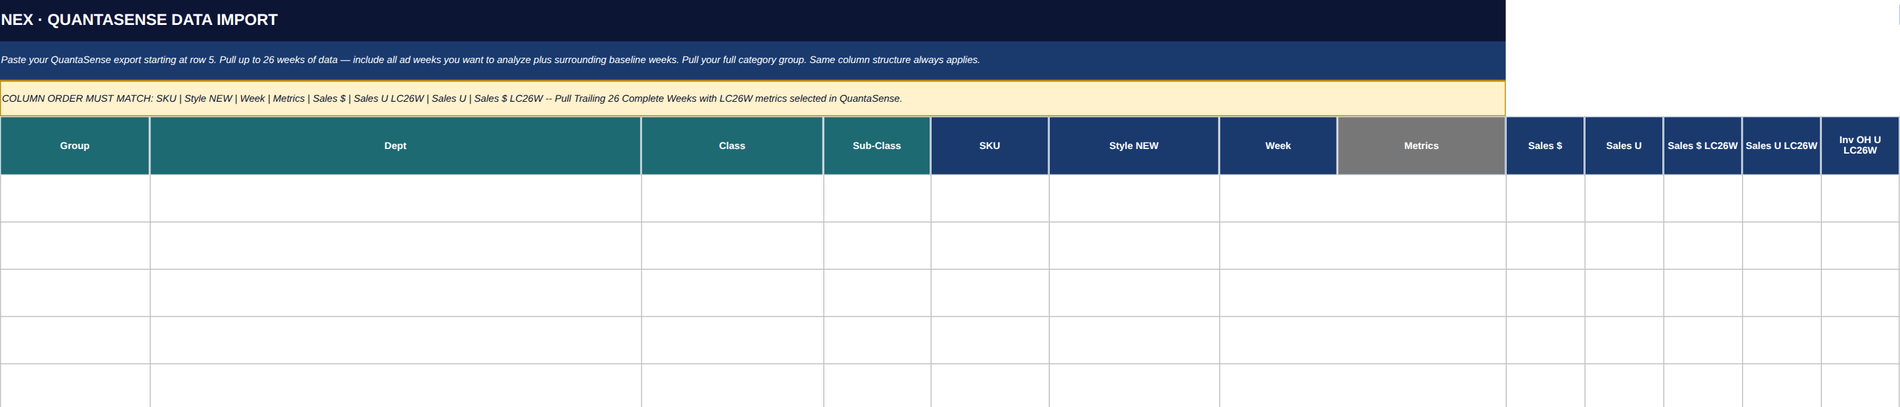
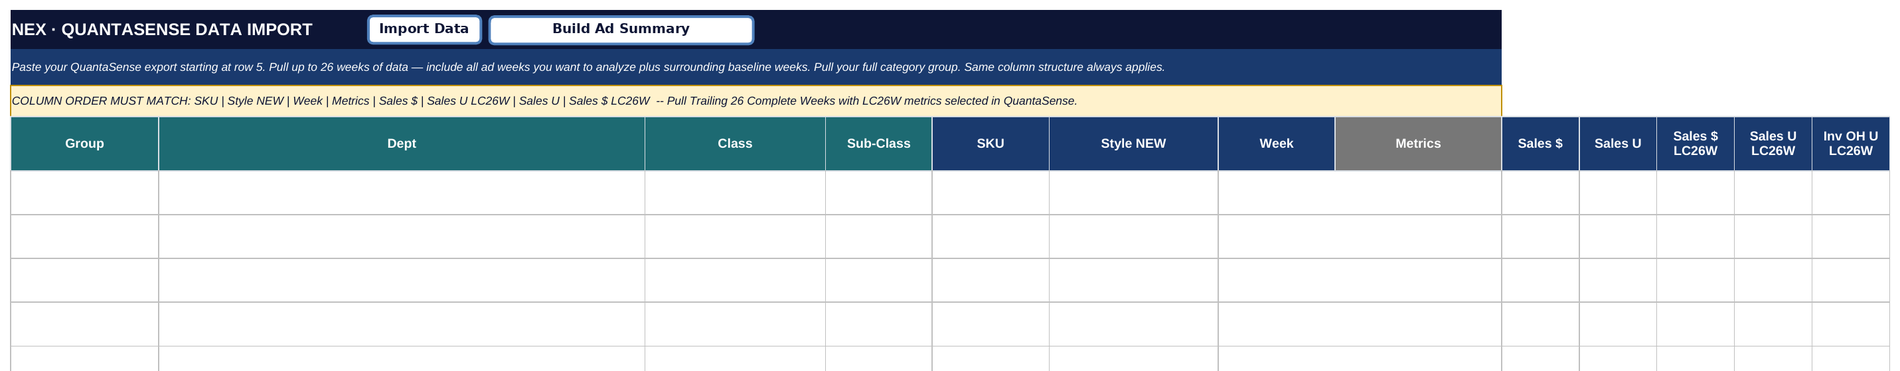
Trim Ad Planner section and fix screenshots
Remove the BrandList, Ad Tracker, VBA Setup and SQL subsections and the
Instructions screenshot; turn the workbook's Instructions tab into an
on-page "How the Ad Planner Works" section (tab guide, how lift is
measured, which lift % to quote) and fold its remaining tips into Before
You Start, the sheet steps and Troubleshooting. Re-render the Data
Import, Lift Query and Ad Week Planner screenshots so their buttons show
(Planner now includes Export To PowerPoint, split into two readable
halves), and drop sheet numbers from headings.

Claude-Session: https://claude.ai/code/session_016iHLqjpmQEgqUVypBFh5hb

diff --git a/Coding.html b/Coding.html
@@ -1067,6 +1067,7 @@ td.red-border-cell:nth-child(4) {
       <a class="nav-sub-link" href="#ad-planner">Overview &amp; Download</a>
       <a class="nav-sub-link" href="#adp-before">Before You Start</a>
       <a class="nav-sub-link" href="#adp-workflow">Weekly Workflow</a>
+      <a class="nav-sub-link" href="#adp-how">How It Works</a>
       <a class="nav-sub-link" href="#adp-calendar">Ad Week Calendar</a>
       <a class="nav-sub-link" href="#adp-data-import">Data Import</a>
       <a class="nav-sub-link" href="#adp-ad-summary">Ad Summary</a>
@@ -1075,8 +1076,6 @@ td.red-border-cell:nth-child(4) {
       <a class="nav-sub-link" href="#adp-export">Export To PowerPoint</a>
       <a class="nav-sub-link" href="#adp-db-import">Ad Database Import</a>
       <a class="nav-sub-link" href="#adp-uploader">Upload (Ctrl+A)</a>
-      <a class="nav-sub-link" href="#adp-brandlist">BrandList &amp; Ad Tracker</a>
-      <a class="nav-sub-link" href="#adp-vba-setup">VBA Setup &amp; SQL</a>
       <a class="nav-sub-link" href="#adp-troubleshooting">Troubleshooting</a>
       <a class="nav-sub-link" href="#adp-code">The Code</a>
     </div>
@@ -2580,18 +2579,28 @@ SaveErr:
         <li><strong>PowerPoint templates:</strong> put <code>AE_and_FE_Templates.pptx</code>, <code>Email_Templates.pptx</code> and <code>Large_Event_Template.pptx</code> in the <strong>same folder</strong> as the workbook. The export looks for them there.</li>
         <li><strong>Network access</strong> to the Ad Database (an Access file on the shared drive) and to RMS. RMS is read through the Oracle ODBC driver with a read-only login; the password is read from a protected network file, so you never type it.</li>
         <li><strong>Installed software:</strong> Excel, PowerPoint and Outlook, the Microsoft Access Database Engine (ACE OLEDB) and the Microsoft ODBC for Oracle driver.</li>
+        <li><strong>VBA reference:</strong> in the VBA editor (<kbd>Alt</kbd>+<kbd>F11</kbd>) under <strong>Tools → References</strong>, make sure <em>Microsoft ActiveX Data Objects 6.1 Library</em> (or the latest version) is ticked. The DB Uploader needs it.</li>
+        <li>The DB Uploader keeps a copy of the department lookup list in <code>C:\temp</code>; it creates the folder if it doesn’t exist.</li>
       </ul>
       <h3 id="adp-workflow">The Weekly Workflow at a Glance</h3>
       <div style="overflow-x:auto;"><table class="inspect-table"><thead><tr><th>#</th><th>Step</th><th>Sheet</th><th>Button / macro</th></tr></thead><tbody><tr><td>1</td><td>Log the ad weeks you want to measure</td><td><a href="#adp-calendar">Ad Week Calendar</a></td><td>Type them in</td></tr><tr><td>2</td><td>Pull 26 weeks of sales from QuantaSense and import them</td><td><a href="#adp-data-import">Data Import</a></td><td><strong>Import Data</strong></td></tr><tr><td>3</td><td>Calculate lift for the ad week(s)</td><td><a href="#adp-data-import">Data Import</a> → <a href="#adp-ad-summary">Ad Summary</a></td><td><strong>Build Ad Summary</strong></td></tr><tr><td>4</td><td>Review results; roll up by vendor or product</td><td><a href="#adp-ad-summary">Ad Summary</a>, <a href="#adp-lift-query">Lift Query</a></td><td><strong>Update</strong> (Lift Query)</td></tr><tr><td>5</td><td>Build the new ad week and pull item details</td><td><a href="#adp-planner">Ad Week Planner</a></td><td><strong>Import SKU Data</strong></td></tr><tr><td>6</td><td>Export the slide, fill the database sheet and log the export</td><td><a href="#adp-planner">Ad Week Planner</a></td><td><strong>Export To PowerPoint</strong></td></tr><tr><td>7</td><td>Finish the database rows and upload them</td><td><a href="#adp-db-import">Ad Database Import</a></td><td><kbd>Ctrl</kbd>+<kbd>A</kbd> → <strong>Update Ad Database</strong></td></tr></tbody></table></div>
-      <div class="note">The workbook also has its own <strong>Instructions</strong> tab. Parts of it are from an older version (for example it mentions a Comparable Items tab and says INCLUDE? is column S). Where they differ, this guide follows the current code.</div>
-      <h3 id="adp-instructions">Sheet 1: Instructions</h3>
-      <img src="Pictures/Coding/Ad Planner/01-Instructions.png" alt="Instructions tab with the overview, tab directory and standard weekly workflow" loading="lazy">
-      <p>A reference page: an overview, a directory of every tab, the weekly workflow, and how lift and verdicts are calculated. Nothing on it is used by the macros.</p>
-      <h3 id="adp-calendar">Sheet 2: Ad Week Calendar</h3>
+      <div class="note">The workbook’s own Instructions tab is summarized below. Parts of it are from older versions (for example it says INCLUDE? is column S and mentions an HL holiday template); this guide follows the current code.</div>
+      <h3 id="adp-how">How the Ad Planner Works</h3>
+      <p>The workbook links your QuantaSense sales data, RMS item data, the PowerPoint ad templates and the Ad Database. These are the tabs you work in:</p>
+      <div style="overflow-x:auto;"><table class="inspect-table"><thead><tr><th>Tab</th><th>What it’s for</th></tr></thead><tbody><tr><td><a href="#adp-calendar">Ad Week Calendar</a></td><td>The list of ad weeks and their QuantaSense week codes.</td></tr><tr><td><a href="#adp-data-import">Data Import</a></td><td>The QuantaSense sales data, loaded with the Import Data button (no pasting).</td></tr><tr><td><a href="#adp-ad-summary">Ad Summary</a></td><td>Lift results for each item in the ad week(s) you analyze.</td></tr><tr><td><a href="#adp-lift-query">Lift Query</a></td><td>Rolls the Ad Summary up by week, description, Class or Sub-Class.</td></tr><tr><td><a href="#adp-planner">Ad Week Planner</a></td><td>Where you build one ad week; drives the PowerPoint export.</td></tr><tr><td><a href="#adp-db-import">Ad Database Import</a></td><td>The rows that get uploaded to the Ad Database.</td></tr></tbody></table></div>
+      <h4 style="margin:14px 0 6px;">How lift is measured</h4>
+      <p><strong>Baseline = the item’s normal, un-promoted sales.</strong> For each item, the Baseline Avg/Wk is the average weekly units it sold over the last 26 weeks <em>excluding</em> ad weeks. That answers “what does this item sell when we <em>don’t</em> advertise it?”, which is the right comparison, rather than a calendar-year average.</p>
+      <ul>
+        <li><strong>Unit Lift</strong> = ad week units − baseline: the extra units the ad drove.</li>
+        <li><strong>Lift %</strong> = unit lift ÷ baseline: the headline number for one item.</li>
+        <li><strong>Weighted Lift %</strong> (Lift Query) = total unit lift ÷ total baseline units across a group of items.</li>
+      </ul>
+      <div style="overflow-x:auto;"><table class="inspect-table"><thead><tr><th>When you’re quoting…</th><th>Use</th></tr></thead><tbody><tr><td>One item</td><td>Its <strong>Lift %</strong> on the Ad Summary.</td></tr><tr><td>A vendor, product line or whole ad</td><td>The <strong>Weighted Lift %</strong> from the Lift Query. It counts every unit equally, so it matches the actual extra units the ad drove.</td></tr><tr><td>A simple average of several items’ Lift %</td><td><strong>Don’t</strong>. Small items with big percentages inflate it.</td></tr></tbody></table></div>
+      <h3 id="adp-calendar">Ad Week Calendar</h3>
       <img src="Pictures/Coding/Ad Planner/02-Ad-Week-Calendar.png" alt="Ad Week Calendar tab with Ad Week, Vehicle, Ad Name / Theme, QS Week Code and Notes columns" loading="lazy">
       <p>A running list of every ad you run. Add a row each time:</p>
       <div style="overflow-x:auto;"><table class="inspect-table"><thead><tr><th>Column</th><th>Example</th><th>Notes</th></tr></thead><tbody><tr><td>Ad Week #</td><td><code>WK25</code></td><td></td></tr><tr><td>Vehicle</td><td><code>AE</code>, <code>SF</code>, <code>X</code></td><td></td></tr><tr><td>Ad Name / Theme</td><td><code>Back to School</code></td><td></td></tr><tr><td><strong>QS Week Code</strong></td><td><code>2025:Wk25</code></td><td><strong>Required.</strong> Must match the Week column in the QuantaSense export exactly. The predecessor lookup uses this list to tell ad weeks from normal weeks.</td></tr><tr><td>Notes</td><td></td><td></td></tr></tbody></table></div>
-      <h3 id="adp-data-import">Sheet 3: Data Import (and the Build Ad Summary button)</h3>
+      <h3 id="adp-data-import">Data Import (and Build Ad Summary)</h3>
       <img src="Pictures/Coding/Ad Planner/03-Data-Import.png" alt="Data Import tab with Group, Dept, Class, Sub-Class, SKU, Style NEW, Week, Metrics, Sales and LC26W columns" loading="lazy">
       <p>Holds the QuantaSense sales data the analysis runs on. You don’t paste into it; the <strong>Import Data</strong> button loads it for you.</p>
       <p><strong>1. Pull the data.</strong> In QuantaSense, export the <strong>Ad Planner V1</strong> layout for your category group covering the <strong>trailing 26 complete weeks</strong> with the LC26W metrics selected. Include the ad week(s) you want to measure and the normal weeks around them. Save it as <code>.xlsx</code>.</p>
@@ -2601,9 +2610,10 @@ SaveErr:
         <li>Opens a temporary <strong>Select Group(s) to Import</strong> sheet with a checkbox for every group in the file (all ticked). Untick any you don’t need, then click <strong>Confirm Selection</strong> (or <strong>Cancel</strong>).</li>
         <li>Clears the old data and writes the selected rows from row 5, then tells you how many rows were imported and how long it took.</li>
       </ol>
+      <div class="note red-note"><strong>Every import wipes and replaces</strong> the data from row 5 down. To analyze two pulls together, combine them in QuantaSense first, then export once.</div>
       <p><strong>3. Click Build Ad Summary.</strong> A temporary <strong>Select Ad Week(s) to Analyze</strong> sheet lists every week in the data. Tick the ad week(s) you want to measure and click <strong>Confirm Selection</strong>. Results go to the Ad Summary tab.</p>
       <div style="overflow-x:auto;"><table class="inspect-table"><thead><tr><th>Columns</th><th>What they hold</th></tr></thead><tbody><tr><td>Group, Dept, Class, Sub-Class (A–D)</td><td>Product hierarchy. Sub-Class is often the brand.</td></tr><tr><td>SKU (E)</td><td>Transaction RIN.</td></tr><tr><td>Style NEW (F)</td><td><code>Parent RIN: Description</code>. Rows containing UNSCANNED, DEMO or SPECIAL ORDER are ignored.</td></tr><tr><td>Week (G)</td><td>Week code, e.g. <code>2025:Wk25</code>.</td></tr><tr><td>Sales $ / Sales U (I–J)</td><td>That week’s revenue and units.</td></tr><tr><td>Sales $ / Sales U LC26W, Inv OH U LC26W (K–M)</td><td>Last-26-week figures used to build the normal (baseline) weekly sales.</td></tr></tbody></table></div>
-      <h3 id="adp-ad-summary">Sheet 4: Ad Summary</h3>
+      <h3 id="adp-ad-summary">Ad Summary</h3>
       <img src="Pictures/Coding/Ad Planner/04-Ad-Summary.png" alt="Ad Summary tab header with Ad Weeks, Count, Last Run and Predecessor fields and the elasticity table columns" loading="lazy">
       <p>One row per Transaction RIN per selected ad week, showing how much the ad lifted sales compared with a normal week. The header shows the weeks analyzed (E3), the item count (H3) and when it last ran (K3).</p>
       <div style="overflow-x:auto;"><table class="inspect-table"><thead><tr><th>Column</th><th>Meaning</th></tr></thead><tbody><tr><td>Ad Wk Units / Ad Wk Rev ($)</td><td>Units and revenue in the ad week.</td></tr><tr><td>Baseline Avg/Wk</td><td>Average weekly units in the <strong>non-ad</strong> weeks (the normal run-rate).</td></tr><tr><td>Baseline Weeks</td><td>How many non-ad weeks the baseline is based on.</td></tr><tr><td>Unit Lift</td><td>Ad week units − baseline.</td></tr><tr><td><strong>Lift %</strong></td><td>Unit lift ÷ baseline. The headline number.</td></tr><tr><td>Rev Lift ($)</td><td>Ad week revenue − average non-ad week revenue.</td></tr><tr><td><strong>Verdict</strong></td><td>See below.</td></tr><tr><td>Average Selling Price</td><td>Ad week revenue ÷ units.</td></tr><tr><td>Group, Dept, Class, Sub-Class</td><td>For filtering by category.</td></tr></tbody></table></div>
@@ -2611,17 +2621,19 @@ SaveErr:
       <p><strong>Using it:</strong> filter Verdict to STRONG/MODERATE, sort Lift % from largest to smallest to rank the best performers, or filter Group/Dept/Class/Sub-Class to focus on a category.</p>
       <p><strong>Predecessor lookup:</strong> to see how an older, similar item did in every ad week in the data, type its Parent RIN in <strong>M3</strong> and run <strong>View → Macros → LookupPredecessor</strong>. The results appear below the main table.</p>
       <div class="note">The Ad Summary only holds the week(s) you picked the last time you ran Build Ad Summary. To compare other weeks, run it again and select them.</div>
-      <h3 id="adp-lift-query">Sheet 5: Lift Query</h3>
+      <h3 id="adp-lift-query">Lift Query</h3>
       <img src="Pictures/Coding/Ad Planner/05-Lift-Query.png" alt="Lift Query tab with Ad Week, Description, Class and Sub-Class inputs, results summary and detail table" loading="lazy">
       <p>Rolls up the Ad Summary for a vendor, product or category: the number to quote when discussing performance with buyers or marketing. Fill in any of the inputs (blank = no filter) and click <strong>Update</strong>:</p>
       <div style="overflow-x:auto;"><table class="inspect-table"><thead><tr><th>Input</th><th>What it filters</th></tr></thead><tbody><tr><td>Ad Week(s) (B3)</td><td>Exact week codes, comma-separated, e.g. <code>2025:Wk25, 2025:Wk31</code>.</td></tr><tr><td>Description contains (B4)</td><td>Text anywhere in the description, e.g. <code>MacBook Air</code>.</td></tr><tr><td>Class contains (B5)</td><td>Text in the Class.</td></tr><tr><td>Sub-Class contains (B6)</td><td>Text in the Sub-Class, often the brand, e.g. <code>Apple</code>.</td></tr></tbody></table></div>
       <p>Results: SKUs matched, total ad units and revenue, total unit and revenue lift, and the <strong>Weighted Lift %</strong> (total unit lift ÷ total baseline units), followed by the matching rows sorted by Lift %. The weighted figure counts every unit equally, so it isn’t skewed by small items the way a simple average of Lift % would be.</p>
-      <h3 id="adp-planner">Sheet 6: Ad Week Planner</h3>
-      <img src="Pictures/Coding/Ad Planner/06-Ad-Week-Planner.png" alt="Ad Week Planner tab with ad header fields, Import SKU Data button and item rows from Trans RIN to Brand" loading="lazy">
+      <h3 id="adp-planner">Ad Week Planner</h3>
+      <img src="Pictures/Coding/Ad Planner/06-Ad-Week-Planner.png" alt="Ad Week Planner left side: ad header fields, Export To PowerPoint and Import SKU Data buttons, and item columns Trans RIN to Call Out" loading="lazy">
+      <img src="Pictures/Coding/Ad Planner/06b-Ad-Week-Planner-right.png" alt="Ad Week Planner right side: Ad Info, Predecessor RIN, LY lift columns, GM %, Vendor Funded, Elasticity, INCLUDE? and Brand" loading="lazy">
       <p>Where you build the ad. The header fields come first:</p>
       <div style="overflow-x:auto;"><table class="inspect-table"><thead><tr><th>Cell</th><th>Enter</th><th>Used for</th></tr></thead><tbody><tr><td><strong>Ad Week #</strong> (B3)</td><td>e.g. <code>25</code> or <code>WK25</code></td><td>Required. File name, database Week, tracker.</td></tr><tr><td><strong>Vehicle</strong> (E3)</td><td><code>AE</code>, <code>FE</code>, <code>X</code>/<code>EMAIL</code>, <code>LE</code>, …</td><td>Picks the PowerPoint template (see below).</td></tr><tr><td>Theme / Anchor (B4)</td><td>Ad theme</td><td>Copied to THEME on the Ad Database Import sheet.</td></tr><tr><td>Ad Start / End Date (B5, E5)</td><td>Dates</td><td>Reference.</td></tr><tr><td>LY Ad Week #, LY Theme, LY Pages Ran</td><td>Last year’s ad</td><td>Reference.</td></tr></tbody></table></div>
       <p>Then one item per row from row 10 (up to row 89):</p>
       <div style="overflow-x:auto;"><table class="inspect-table"><thead><tr><th>Column</th><th>Filled by</th><th>Notes</th></tr></thead><tbody><tr><td><strong>Trans RIN</strong> (A)</td><td>You</td><td>Use <code>TBD</code> for a new item without a RIN yet; the slide marks it “TBD -- NEW ITEM” in red.</td></tr><tr><td>Parent RIN, VPN, UPC, Cost, Retail, Description (B–G)</td><td><strong>Import SKU Data</strong> (from RMS)</td><td>Type over Retail or Description after importing to use your own text on the slide and in the database.</td></tr><tr><td><strong>Promo Price</strong> (H)</td><td>You</td><td>Becomes the ad price.</td></tr><tr><td>Savings (I)</td><td>Formula</td><td>Retail − Promo Price.</td></tr><tr><td>Call Out (J)</td><td>You</td><td>e.g. New, Special Pricing.</td></tr><tr><td>Ad Info (K)</td><td><strong>Import SKU Data</strong> (from the Ad Database)</td><td>The newest ad copy previously used for that item.</td></tr><tr><td>Predecessor RIN (L)</td><td>You</td><td>An older, similar item; fills LY Ad Units, LY Units Lift % and LY Rev Lift from the Ad Summary.</td></tr><tr><td>Curr IOH, GM %, Vendor Funded? (P–R)</td><td>You</td><td>Planning notes.</td></tr><tr><td>Elasticity (LY) (S)</td><td>Formula</td><td>STRONG / MODERATE / WEAK from LY Units Lift %.</td></tr><tr><td><strong>INCLUDE?</strong> (T)</td><td>You</td><td><code>YES</code> puts the item on the slide.</td></tr><tr><td>Brand (U)</td><td>Formula</td><td>Detected from the description using the BrandList tab.</td></tr></tbody></table></div>
+      <p>The formula columns (Savings, the LY columns, Elasticity and Brand) are locked so the formulas can’t be deleted; don’t type into them. If a brand isn’t detected, add it to the workbook’s BrandList tab.</p>
       <p><strong>Import SKU Data</strong> (the <code>UpdateButton</code> macro): select the Trans RIN cells to update in column A, or click any cell outside column A to update every row from 10 down, then click the button. For each RIN it reads the item’s details from RMS and the newest Ad Information from the Ad Database, then shows which rows were updated.</p>
       <h3 id="adp-export">Export To PowerPoint</h3>
       <p>When the INCLUDE? column is set, click <strong>Export To PowerPoint</strong> on the Planner and confirm the prompt. The macro:</p>
@@ -2629,18 +2641,19 @@ SaveErr:
         <li><strong>Checks the setup.</strong> Ad Week # must be filled, U9 must say <code>Brand</code>, and at least one item must be marked YES.</li>
         <li><strong>Picks the template</strong> from the Vehicle (below) and asks you for a layout if there’s a choice. If more items are marked YES than the layout has slots, it stops and tells you.</li>
         <li><strong>Asks where to save</strong> the PowerPoint (suggested name e.g. <code>25_AE_FE_20261002.pptx</code>). <strong>Cancel here and nothing else runs.</strong></li>
-        <li><strong>Bulk loads the Ad Database Import sheet</strong> with every item row on the Planner (see <a href="#adp-db-import">Sheet 7</a>).</li>
+        <li><strong>Bulk loads the Ad Database Import sheet</strong> with every item row on the Planner (see <a href="#adp-db-import">Ad Database Import</a>).</li>
         <li><strong>Builds the slide.</strong> Each slot gets the description, VPN, RIN, retail, promo price, savings and call out, then the file is saved and PowerPoint closed.</li>
         <li><strong>Logs the export</strong> to the Ad Tracker and shows a summary with the saved file’s location.</li>
       </ol>
-      <div style="overflow-x:auto;"><table class="inspect-table"><thead><tr><th>Vehicle (E3)</th><th>Template</th><th>Layouts</th></tr></thead><tbody><tr><td><code>LE</code> (large event)</td><td><code>Large_Event_Template.pptx</code></td><td>No prompt. 7 items per slide, as many slides as needed (up to 210 items).</td></tr><tr><td><code>X</code> or <code>EMAIL</code> (or an Ad Week containing X)</td><td><code>Email_Templates.pptx</code></td><td>1 = feature hero + 3 (4 slots), 2 = 2×2 grid (4), 3 = single column (3).</td></tr><tr><td>Anything else (<code>AE</code>, <code>FE</code>, …)</td><td><code>AE_and_FE_Templates.pptx</code></td><td>1 = hero + 6 (7 slots), 2 = 9-up grid (9), 3 = hero + 3 (4).</td></tr></tbody></table></div>
-      <h3 id="adp-db-import">Sheet 7: Ad Database Import (and the DB Uploader)</h3>
+      <div style="overflow-x:auto;"><table class="inspect-table"><thead><tr><th>Vehicle (E3)</th><th>Template</th><th>Layouts</th></tr></thead><tbody><tr><td><code>LE</code> (large event)</td><td><code>Large_Event_Template.pptx</code></td><td>No prompt. 7 items per slide, as many slides as needed (up to 210 items).</td></tr><tr><td><code>X</code> or <code>EMAIL</code> (or an Ad Week containing X)</td><td><code>Email_Templates.pptx</code></td><td>1 = feature hero + 3 (4 slots), 2 = 2×2 grid (4), 3 = single column (3).</td></tr><tr><td>Anything else (<code>AE</code>, <code>FE</code>, …)</td><td><code>AE_and_FE_Templates.pptx</code></td><td>1 = hero + 6 (7 slots), 2 = 9-up grid (9), 3 = hero + 3 (4).</td></tr><tr><td><code>HL</code> (holiday)</td><td><code>AE_and_FE_Templates.pptx</code></td><td>The Instructions tab mentions an 8-grid holiday template, but the current code treats HL like AE/FE.</td></tr></tbody></table></div>
+      <h3 id="adp-db-import">Ad Database Import (and the DB Uploader)</h3>
       <img src="Pictures/Coding/Ad Planner/07-Ad-Database-Import.png" alt="Ad Database Import tab with Week, Item Info, Marketing, Pricing, Image, Order Info and Coop column groups" loading="lazy">
       <p>The rows that go into the Ad Database. Export To PowerPoint adds one row per Planner item <strong>below any existing rows</strong>:</p>
       <div style="overflow-x:auto;"><table class="inspect-table"><thead><tr><th>Column</th><th>Filled with</th></tr></thead><tbody><tr><td>Wk (A)</td><td>Ad Week # and Vehicle combined, e.g. <code>25AE</code>.</td></tr><tr><td>Supplier # / Supplier Name (B–C)</td><td>From RMS.</td></tr><tr><td>RIN, Style # (VPN) (D–E)</td><td>Trans RIN and VPN.</td></tr><tr><td>Item Description (F)</td><td>The Planner’s Description if typed, otherwise RMS.</td></tr><tr><td>Ad Information (G)</td><td>The Planner’s <strong>Call Out (J)</strong> if filled, otherwise the newest Ad Information in the Ad Database. (The macro looks for a Planner header named “Ad Information”; the Planner’s header is “Ad Info”, so it falls back to column J. Rename K9 to <code>Ad Information</code> if you want column K used instead.)</td></tr><tr><td>Priority (I)</td><td>1, 2, 3… in Planner order.</td></tr><tr><td>NEX Price (P), Adv Price (Q)</td><td>Planner Retail (or RMS retail) and Promo Price.</td></tr><tr><td>NEX Cost (U), Reg Cost (AQ)</td><td>RMS cost.</td></tr><tr><td>IMAGE (AC)</td><td>The newest Image Delivery note in the Ad Database.</td></tr><tr><td>DEPT, CLASS, THEME, PARENT (AM–AP)</td><td>RMS dept and class, the Planner theme, Parent RIN.</td></tr><tr><td>New Item, Online Exclusive, Change Type, Pricing Strategy, YEAR</td><td>Pre-filled defaults: <code>N</code>, <code>N</code>, <code>FIXED</code>, <code>YFB</code>, <code>2026</code>.</td></tr></tbody></table></div>
       <div class="note red-note"><strong>Clear old rows before re-exporting.</strong> Every export adds rows below the existing ones and includes <em>every</em> Planner row with a Trans RIN, not just INCLUDE? = YES. Delete rows you don’t want uploaded before using the DB Uploader.</div>
       <p>Fill in anything still blank that the ad needs (Page, MSRP, Call Outs, Grouping Info, Coop $, Order Frequency, etc.).</p>
       <h3 id="adp-uploader">Upload to the Ad Database (Ctrl+A)</h3>
+      <p>The uploader finds each field by its <strong>header text in row 4</strong>, so columns can move but headers must keep their exact names. Don’t merge cells in rows 1 or 4.</p>
       <ol>
         <li>On the Ad Database Import sheet, <strong>select one cell in each row</strong> you want to upload (up to 500). Rows with no Wk and no RIN are skipped.</li>
         <li>Press <kbd>Ctrl</kbd>+<kbd>A</kbd> to open the <strong>Update Ad Database</strong> form. It copies the latest lookup list to <code>C:\temp</code> and fills in what it can.</li>
@@ -2657,21 +2670,8 @@ SaveErr:
         <li>When <em>“Done!”</em> appears, open the Ad Database and check the new records. You may still need to add imaging, Parent RIN, RPC dates or other details by hand.</li>
       </ol>
       <div style="overflow-x:auto;"><table class="inspect-table"><thead><tr><th>Sheet column</th><th>Ad Database field</th></tr></thead><tbody><tr><td>RIN</td><td><em>RIN or Item List</em> (an <code>R</code> is added to numeric RINs) and <em>Featured RIN</em> (number only)</td></tr><tr><td>Supplier Name / Supplier #</td><td>Vendor / DUNS</td></tr><tr><td>Style # (VPN)</td><td>Vendor Style Number</td></tr><tr><td>Item Description / Ad Information</td><td>Item Description / Ad Information</td></tr><tr><td>Page</td><td>Page (two digits, e.g. <code>04</code>)</td></tr><tr><td>New Item Y/N, Online Exclusive Y/N</td><td>Same fields (blank = <code>N</code>)</td></tr><tr><td>NEX Price / Adv Price / NEX Cost / Adv Cost</td><td>NEX Retail / Adv Retail / NEX Cost / Adv Cost</td></tr><tr><td>MSRP, % Off MSRP, Change Type, Pricing Strategy, Multi Buy, Billback, Call Outs, Grouping Info, Coop $</td><td>Same names</td></tr><tr><td>IMAGE</td><td>Image Delivery</td></tr><tr><td>Order Frequency</td><td>Same (<code>BAS</code> becomes <code>BAS (AR)</code>)</td></tr></tbody></table></div>
-      <h3 id="adp-brandlist">Sheet 8: BrandList</h3>
-      <img src="Pictures/Coding/Ad Planner/08-BrandList.png" alt="BrandList tab header" loading="lazy">
-      <p>A single column of brand names. The Planner’s Brand column looks for these names in each item’s description, so add any brand that isn’t being detected.</p>
-      <h3 id="adp-tracker">Sheet 9: Ad Tracker</h3>
-      <img src="Pictures/Coding/Ad Planner/09-Ad-Tracker.png" alt="Ad Tracker tab header row" loading="lazy">
-      <p>A history of every PowerPoint export, written by the macro: export date, ad week, vehicle, brand, RINs, VPN, description, cost, retail, promo price, savings and call out. Re-exporting the same Ad Week and Vehicle replaces that export’s rows. Don’t edit it by hand.</p>
-      <div class="note"><strong>Heads-up:</strong> the tab’s header row has <em>Start Date</em> and <em>End Date</em> in columns D–E, but the macro writes Brand in column D and everything after it two columns to the left of its header. Either remove those two header cells or update <code>AppendToAdTracker</code> so the columns line up.</div>
-      <h3 id="adp-vba-setup">Sheet 10: VBA Setup</h3>
-      <img src="Pictures/Coding/Ad Planner/10-VBA-Setup.png" alt="VBA Setup tab with one-time macro setup steps" loading="lazy">
-      <p>Notes for setting up the macros (enabling the Developer tab, where the templates go, optional UserForm versions of the selectors). It’s a reference only; the downloaded workbook already contains the code.</p>
-      <h3 id="adp-sql">Sheet 11: SQL</h3>
-      <img src="Pictures/Coding/Ad Planner/11-SQL.png" alt="SQL tab with the RMS item query" loading="lazy">
-      <p>Holds the RMS query in cell B1 (named <code>rngrmsquery</code>). Import SKU Data and the export’s bulk load replace <code>ITEMS</code> with each RIN and run it to get the parent RIN, UPC, description, dept, class, supplier, VPN, cost, retail and MSRP. Don’t change it unless the RMS tables change.</p>
       <h3 id="adp-troubleshooting">Troubleshooting</h3>
-      <div style="overflow-x:auto;"><table class="inspect-table"><thead><tr><th>Problem</th><th>Fix</th></tr></thead><tbody><tr><td><em>“File does not match QuantaSense V1 layout.”</em></td><td>Export the Ad Planner V1 layout from QuantaSense; headers must be on row 3 with Group, SKU, Week and Inv OH in A, E, G and M.</td></tr><tr><td><em>“No ad week data found for the selected week(s).”</em></td><td>The week codes in the data don’t match. Check the Week column format (e.g. <code>2026:Wk14</code>) and that the import covered those weeks.</td></tr><tr><td>Lots of LOW DATA or NEW LAUNCH verdicts</td><td>Pull a longer range (26 weeks) so there are enough normal weeks for a baseline.</td></tr><tr><td>Lift Query finds nothing</td><td>Run Build Ad Summary for the weeks you’re querying first; the query only reads the Ad Summary.</td></tr><tr><td>Import SKU Data / export: <em>database or Oracle error</em></td><td>No access to RMS or the Ad Database share, or the Oracle ODBC / Access engine isn’t installed.</td></tr><tr><td><em>“Template not found”</em></td><td>Put the three <code>.pptx</code> templates in the same folder as the workbook.</td></tr><tr><td><em>“Layout n has x slots but you have y items”</em></td><td>Mark fewer items YES or choose a bigger layout.</td></tr><tr><td><em>“Column U row 9 must be labeled ‘Brand’”</em></td><td>Restore the Brand header in U9 on the Planner.</td></tr><tr><td>Duplicate rows on Ad Database Import</td><td>Each export appends. Delete old rows before exporting again.</td></tr><tr><td>Ctrl+A form: <em>“Could not find any Week Versions”</em></td><td>That week has no versions set up in the Ad Database yet; check the week number and fiscal year.</td></tr><tr><td>Ctrl+A form: <em>“Too Many Cells”</em></td><td>Select just one cell per row (500 at most).</td></tr></tbody></table></div>
+      <div style="overflow-x:auto;"><table class="inspect-table"><thead><tr><th>Problem</th><th>Fix</th></tr></thead><tbody><tr><td><em>“File does not match QuantaSense V1 layout.”</em></td><td>Export the Ad Planner V1 layout from QuantaSense; headers must be on row 3 with Group, SKU, Week and Inv OH in A, E, G and M.</td></tr><tr><td><em>“No ad week data found for the selected week(s).”</em></td><td>The week codes in the data don’t match. Check the Week column format (e.g. <code>2026:Wk14</code>) and that the import covered those weeks.</td></tr><tr><td>Lots of LOW DATA or NEW LAUNCH verdicts</td><td>Pull a longer range (26 weeks) so there are enough normal weeks for a baseline.</td></tr><tr><td>Lift Query finds nothing</td><td>Run Build Ad Summary for the weeks you’re querying first; the query only reads the Ad Summary.</td></tr><tr><td>Import SKU Data / export: <em>database or Oracle error</em></td><td>No access to RMS or the Ad Database share, or the Oracle ODBC / Access engine isn’t installed.</td></tr><tr><td><em>“Template not found”</em></td><td>Put the three <code>.pptx</code> templates in the same folder as the workbook.</td></tr><tr><td><em>“Layout n has x slots but you have y items”</em></td><td>Mark fewer items YES or choose a bigger layout.</td></tr><tr><td><em>“Column U row 9 must be labeled ‘Brand’”</em></td><td>Restore the Brand header in U9 on the Planner.</td></tr><tr><td>Duplicate rows on Ad Database Import</td><td>Each export appends. Delete old rows before exporting again.</td></tr><tr><td>Ctrl+A form: <em>“Could not find any Week Versions”</em></td><td>That week has no versions set up in the Ad Database yet; check the week number and fiscal year.</td></tr><tr><td>Ctrl+A form: <em>“Too Many Cells”</em></td><td>Select just one cell per row (500 at most).</td></tr><tr><td>Ctrl+A form: <em>“Error Posting”</em></td><td>A value doesn’t fit its database field, e.g. text in a price, cost or date column. Remove stray notes from those cells and try again.</td></tr><tr><td><em>“Could not connect to database…”</em> box</td><td>Network problem, a full network drive, or someone has the database open exclusively. Try again; if the database has moved, type its new path into the box.</td></tr><tr><td>Export cancelled at Save As</td><td>Nothing changed. The export is all-or-nothing; the database sheet and tracker only update after the file is saved.</td></tr><tr><td>Average Selling Price overwritten</td><td>Ad Summary column M is rebuilt on every Build Ad Summary run; don’t type into it.</td></tr><tr><td>A macro stops working after editing the code</td><td>Close and reopen Excel; VBA sometimes keeps stale state.</td></tr></tbody></table></div>
       <h3 id="adp-code">The Code</h3>
       <p>All modules in the workbook. Network paths, the RMS server and login, and a contact’s name and extension are redacted. (The workbook also holds older copies of the export and bulk-load modules, which aren’t shown.)</p>
       <p><strong>Export To PowerPoint pipeline</strong>: <code>Run_Combined_Pipeline</code> (the button), <code>Bulk_LOAD</code>, <code>ExportToPowerPoint</code> and <code>AppendToAdTracker</code>.</p>
